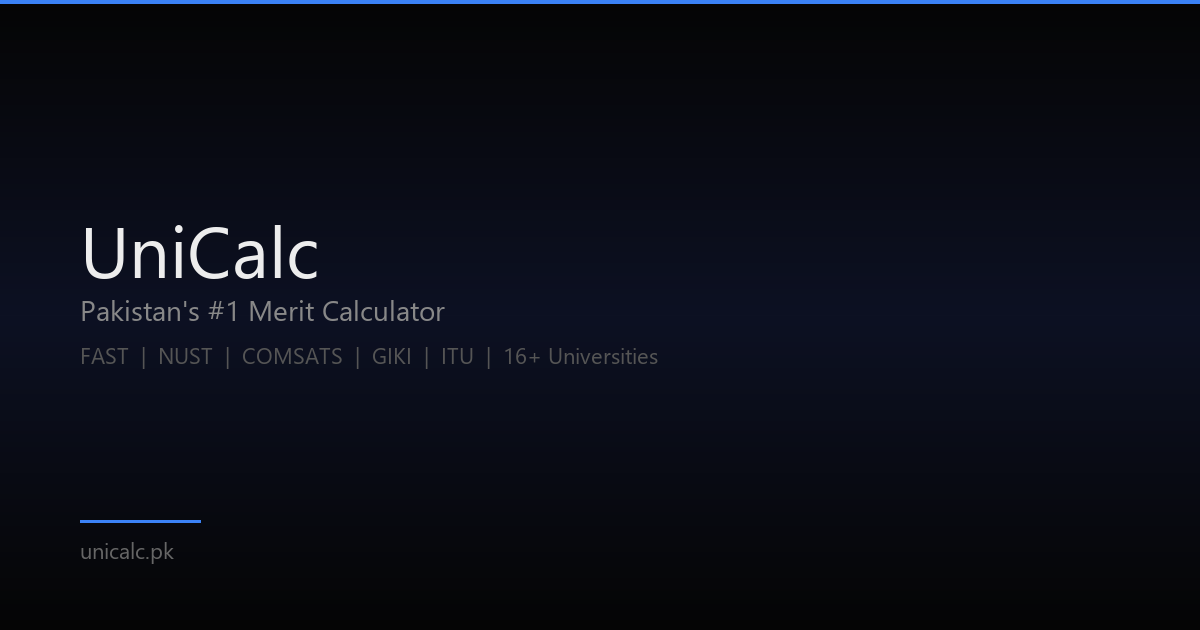
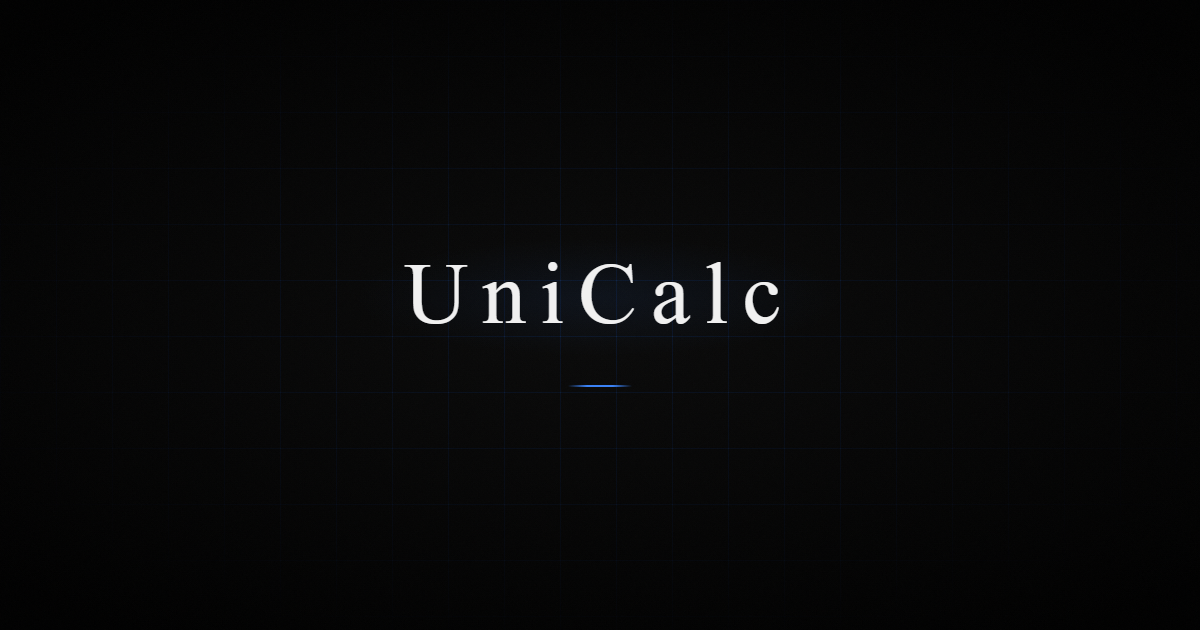
Update OG image, fix UHS total marks (200 → 180)

diff --git a/js/testPatterns.js b/js/testPatterns.js
@@ -265,7 +265,7 @@ const testPatterns = [
     pattern: {
       totalMCQs: 200,
       duration: "3 hours 30 minutes",
-      totalMarks: 200,
+      totalMarks: 180,
       isComputerBased: true,
       hasNegativeMarking: false,
       allowsCalculator: false,
@@ -276,7 +276,7 @@ const testPatterns = [
         { name: "English", mcqs: 18 },
         { name: "Logical Reasoning", mcqs: 6 }
       ],
-      notes: "Conducted by PMC (Pakistan Medical Commission). 1 mark per MCQ, no negative marking. Required for all Punjab medical/dental college admissions under UHS."
+      notes: "Conducted by PMC (Pakistan Medical Commission). No negative marking. Required for all Punjab medical/dental college admissions under UHS."
     }
   },
   {

diff --git a/js/universityConfigs.js b/js/universityConfigs.js
@@ -256,7 +256,7 @@ const calculatorConfigs = {
             'BDS'
         ],
         weights: { matric: 0.10, inter: 0.40, test: 0.50 },
-        testMax: 200,
+        testMax: 180,
         hideTestTypePills: true
     },
     nums: {